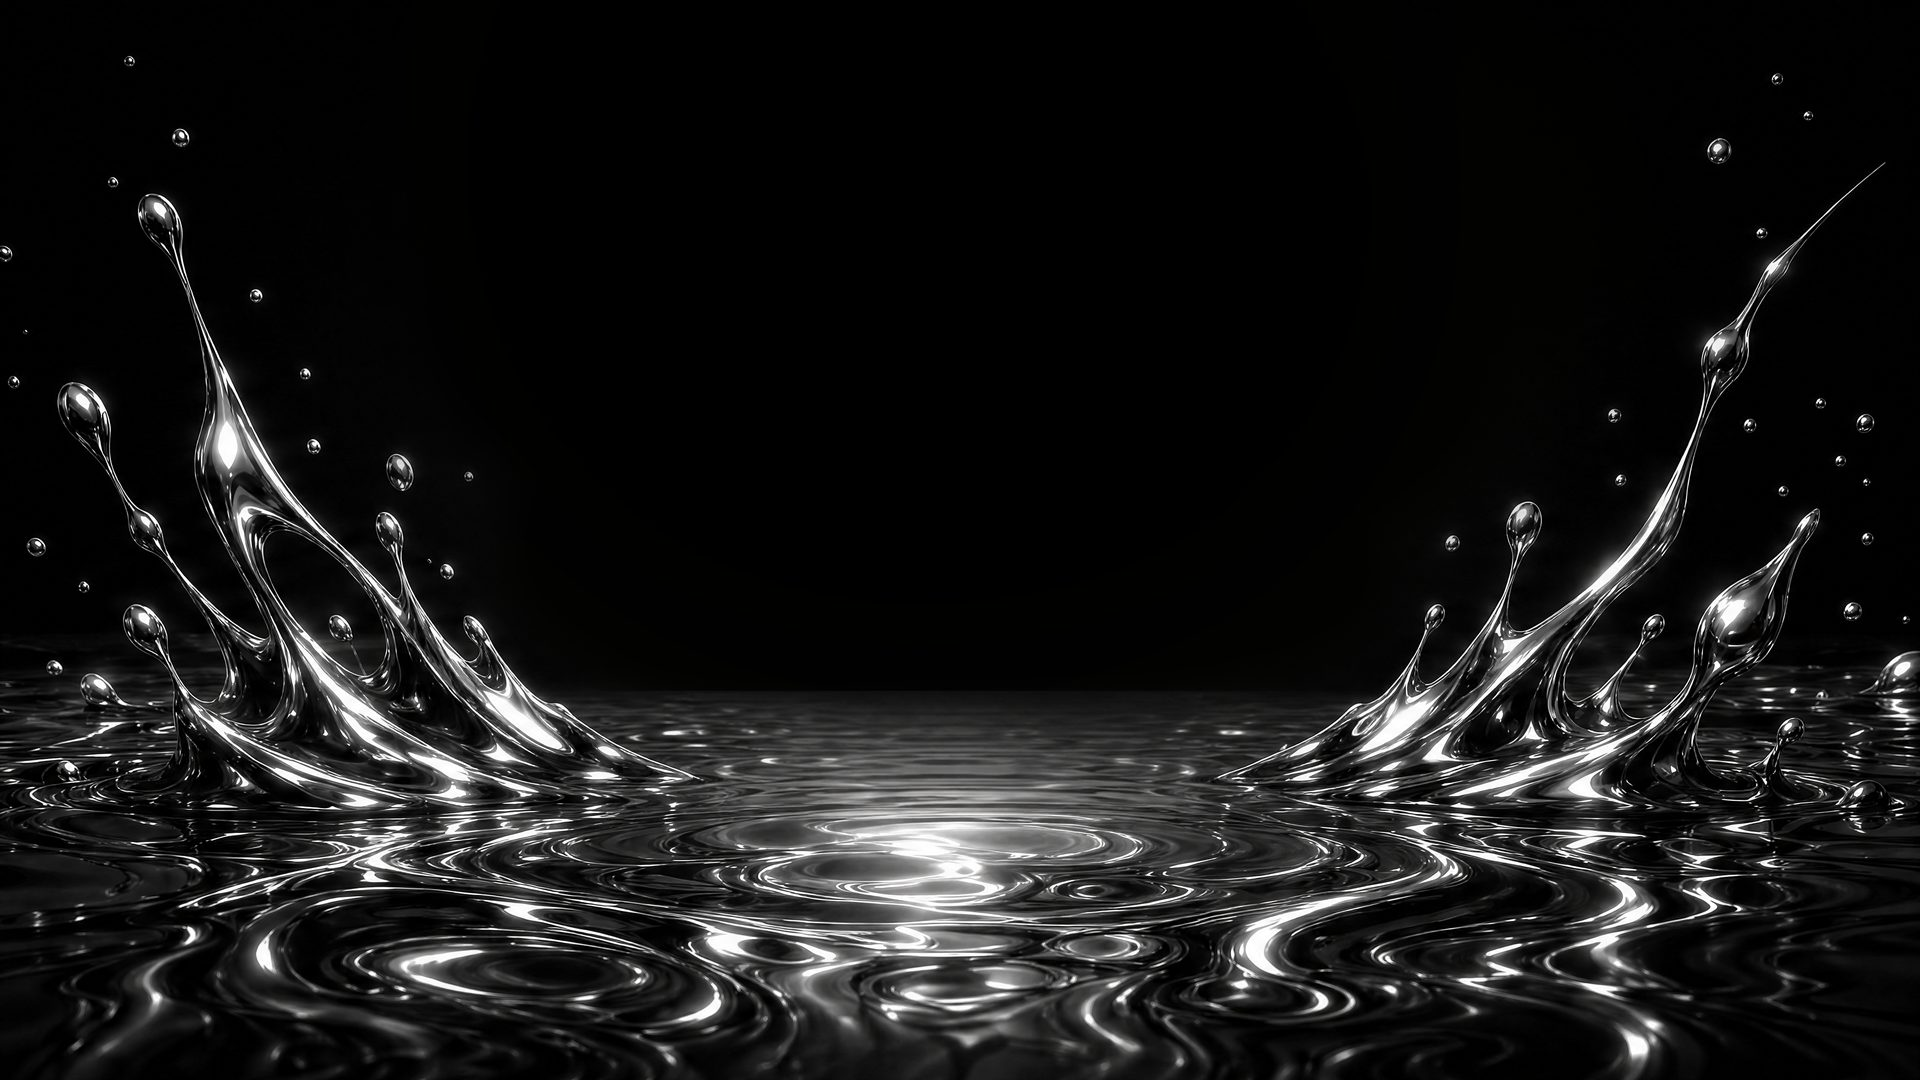
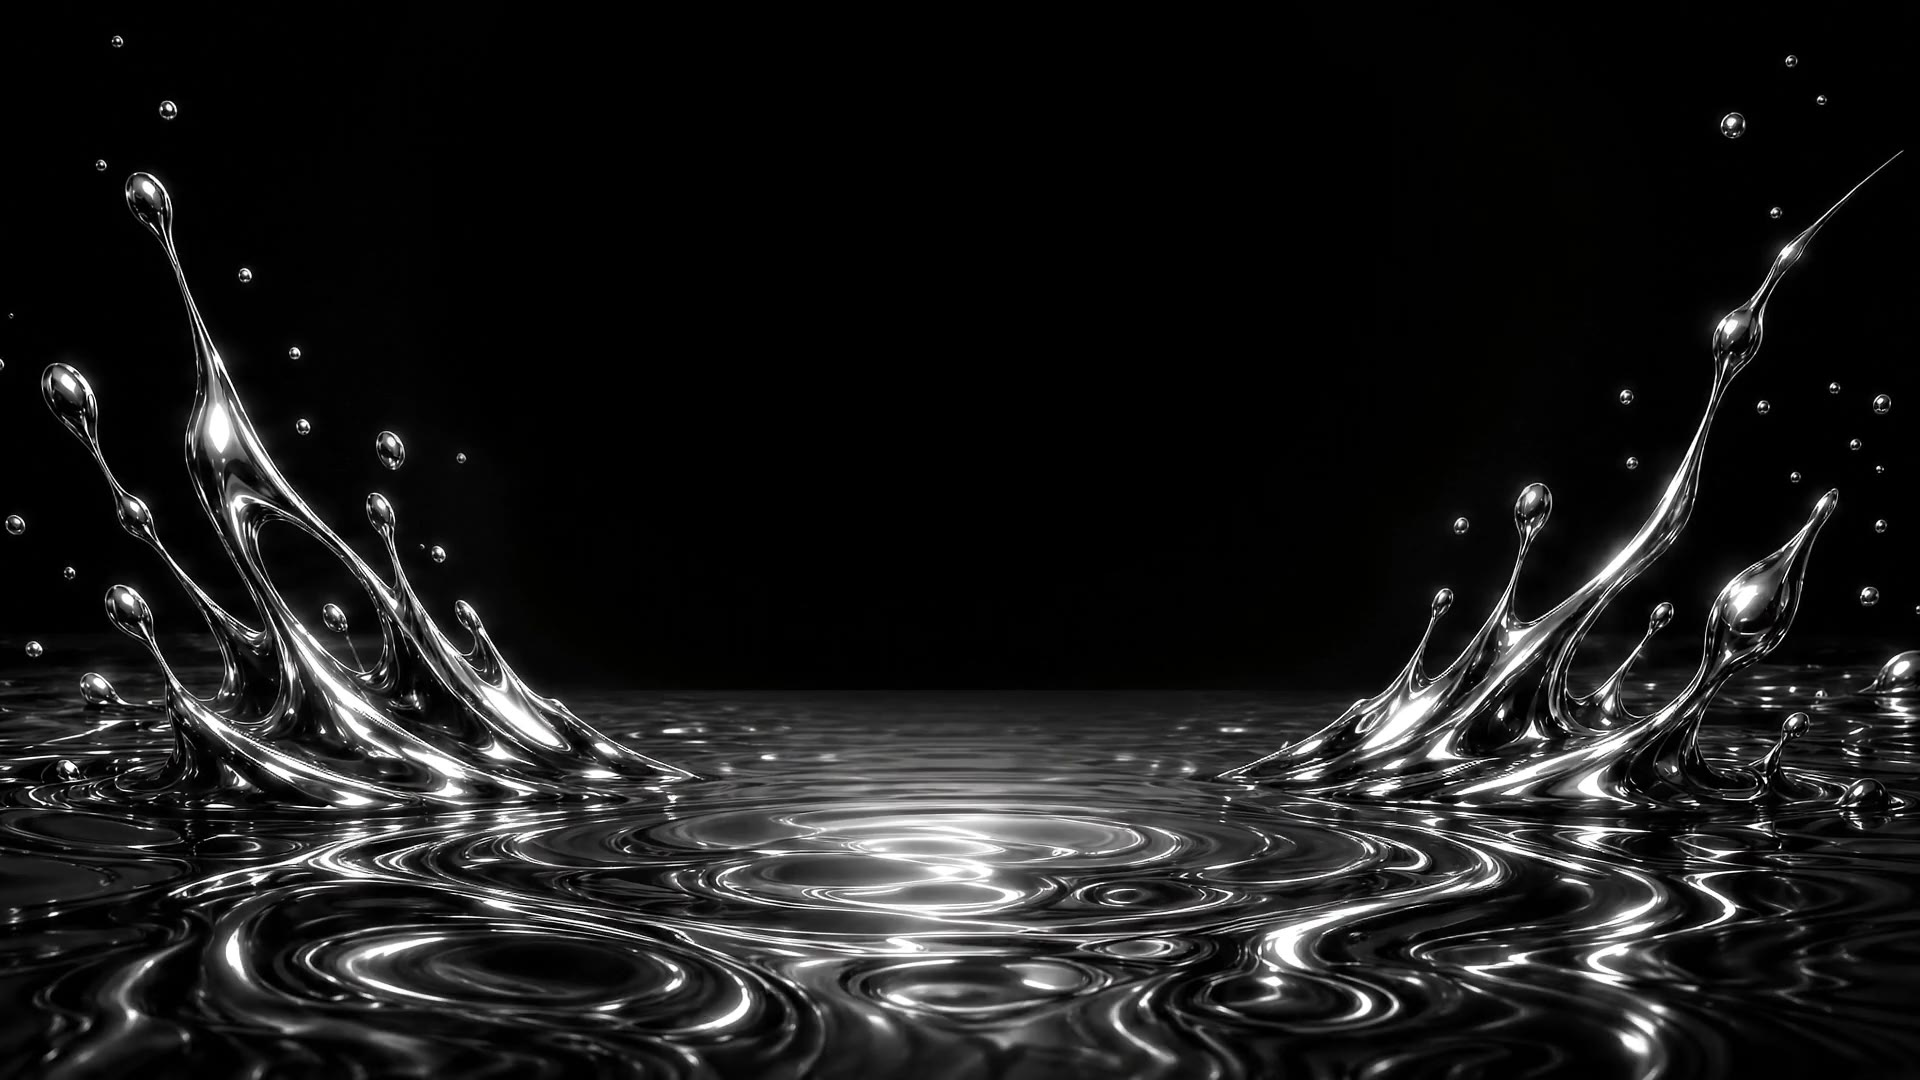
Seamless hero loop, dual-codec delivery (AV1 + H.264)
Rebuilt the liquid-metal hero video from the raw footage so the loop
is mathematically seamless: output starts at source t=1.25s and the
original tail crossfades (1.25s) back into that same head, with the
fade completing frame-exactly -- first and last frame are the same
source frame (verified: lossless pipeline pixel-identical; shipped
file differs only by codec noise, mean 1.6/255). One junk trailing
frame from xfade trimmed via -frames:v.

Delivery: 1080p24, no audio, faststart. AV1 (SVT, crf 34) 3.35 MB for
modern browsers with H.264 (crf 21, veryslow) 5.26 MB fallback --
down from a single 11.9 MB H.264. Poster regenerated from the new
first frame so playback start is invisible. Video loader now fills
every <source data-src>, letting the browser negotiate codec.

Dated masters kept in 02_Working/. Preview confirms AV1 gets picked
(canPlayType 'probably'), duration 8.83s, readyState 4.

diff --git a/js/main.js b/js/main.js
@@ -289,9 +289,11 @@
       if (!video) return;
       var conn = navigator.connection || {};
       if (reducedMotion || conn.saveData || !mqWide.matches) return;
-      var source = video.querySelector("source[data-src]");
-      if (!source || source.getAttribute("src")) return;
-      source.src = source.dataset.src;
+      var sources = video.querySelectorAll("source[data-src]");
+      if (!sources.length || sources[0].getAttribute("src")) return;
+      Array.prototype.forEach.call(sources, function (source) {
+        source.src = source.dataset.src; /* browser picks the first type it can play */
+      });
       video.load();
       var p = video.play();
       if (p && p.catch) p.catch(function () { /* poster remains */ });

diff --git a/index.html b/index.html
@@ -89,6 +89,8 @@
     <!-- ============ HERO ============ -->
     <section class="hero" aria-label="DOCTHOR">
       <video class="hero-video" poster="assets/hero-poster.jpg" muted loop playsinline autoplay preload="none" aria-hidden="true" data-hero-video>
+        <!-- seamless loop (first frame == last frame); AV1 for modern browsers, H.264 fallback -->
+        <source data-src="assets/hero-loop-av1.mp4" type='video/mp4; codecs="av01.0.08M.08"'>
         <source data-src="assets/hero-loop.mp4" type="video/mp4">
       </video>
       <div class="hero-veil" aria-hidden="true"></div>
@@ -291,6 +293,6 @@
     <a href="#booking" aria-label="Booking" data-dot></a>
   </nav>
 
-  <script src="js/main.js?v=14" defer></script>
+  <script src="js/main.js?v=15" defer></script>
 </body>
 </html>